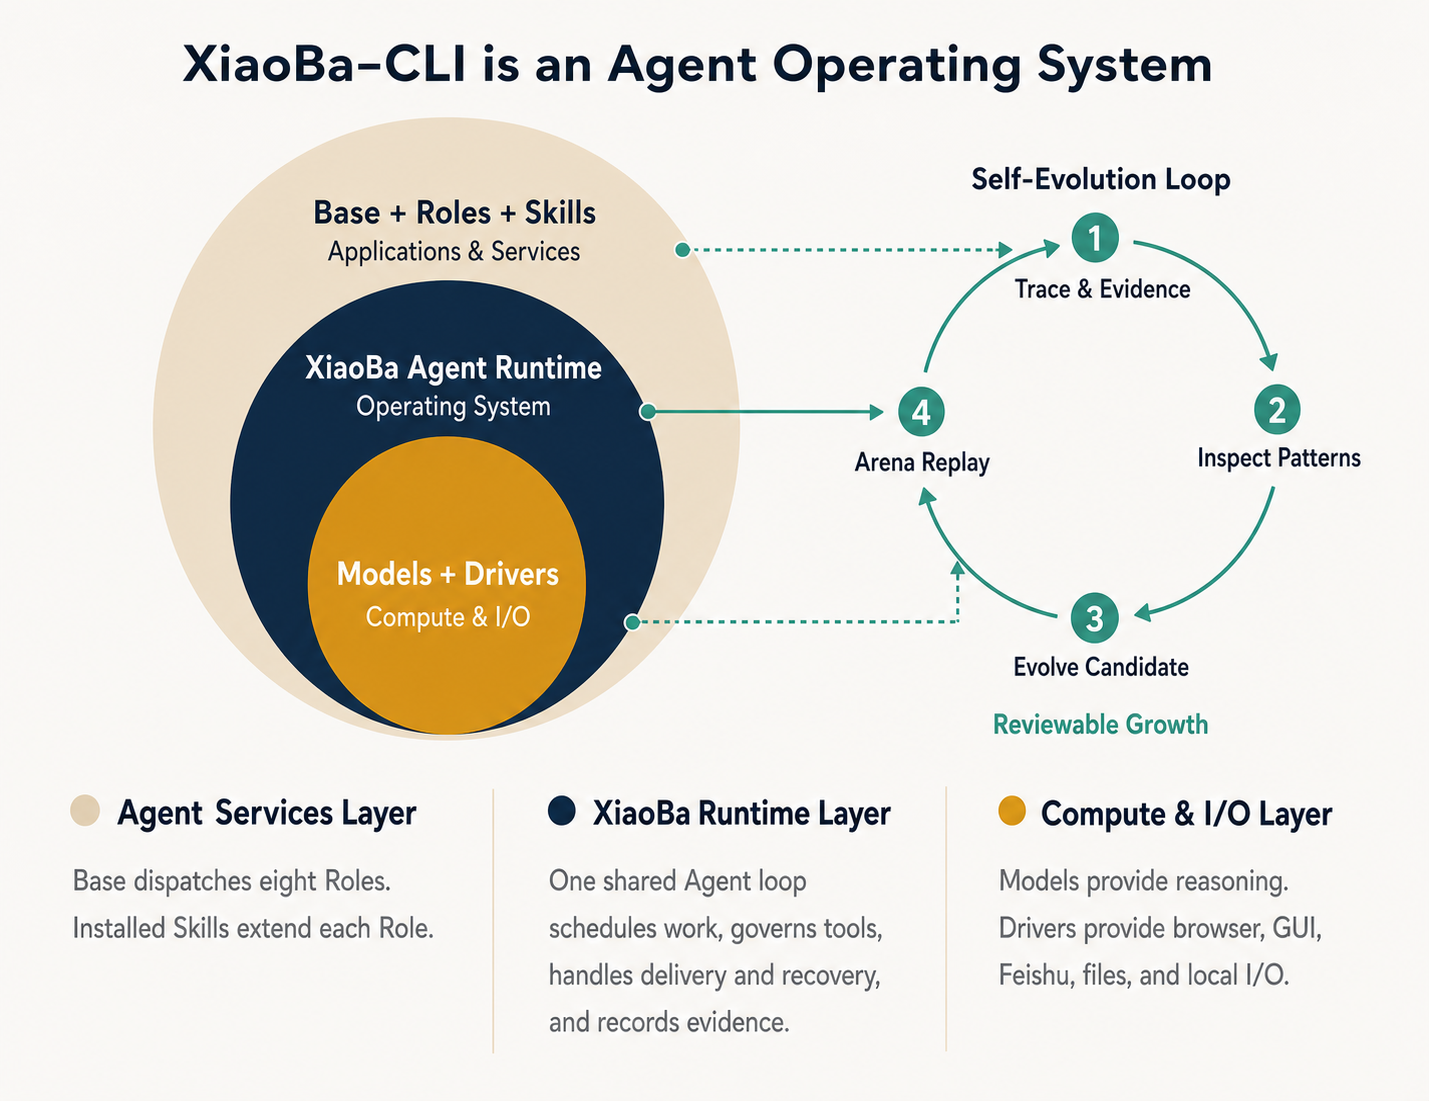
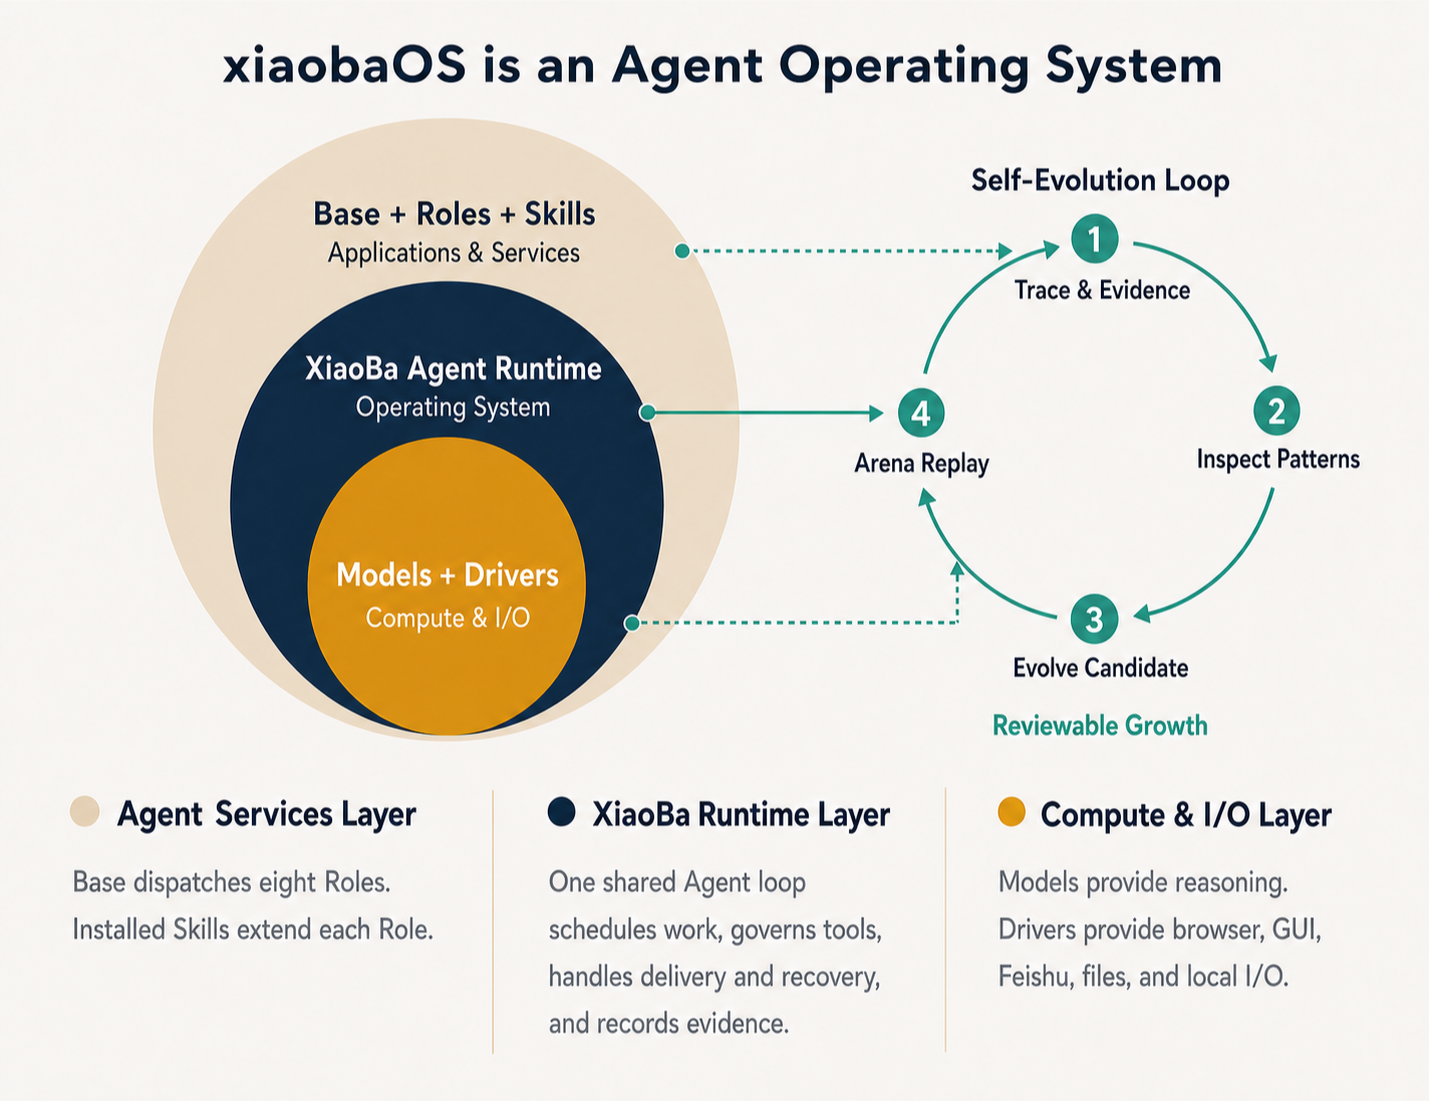
Update site branding to xiaobaOS

diff --git a/posts/xiaoba-cli-agent-os.html b/posts/xiaoba-cli-agent-os.html
@@ -5,10 +5,10 @@
     <meta name="viewport" content="width=device-width, initial-scale=1.0" />
     <meta
       name="description"
-      content="为什么 XiaoBa-CLI 不只是一个模型套壳，而是一套把模型、工具、角色、证据和自进化组织起来的 Agent Operating System。"
+      content="为什么 xiaobaOS 不只是一个模型套壳，而是一套把模型、工具、角色、证据和自进化组织起来的 Agent Operating System。"
     />
     <meta property="og:type" content="article" />
-    <meta property="og:title" content="XiaoBa-CLI：为什么 Agent Harness 更像一个操作系统" />
+    <meta property="og:title" content="xiaobaOS：为什么 Agent Harness 更像一个操作系统" />
     <meta
       property="og:description"
       content="模型只是 CPU，Runtime 才决定 Agent 如何工作、如何留下证据，以及如何持续进化。"
@@ -18,7 +18,7 @@
       content="https://fightheyyy.github.io/assets/posts/xiaoba-cli-agent-os/agent-os.png"
     />
     <meta property="article:published_time" content="2026-07-16" />
-    <title>XiaoBa-CLI：为什么 Agent Harness 更像一个操作系统</title>
+    <title>xiaobaOS：为什么 Agent Harness 更像一个操作系统</title>
     <link rel="canonical" href="https://fightheyyy.github.io/posts/xiaoba-cli-agent-os.html" />
     <link rel="icon" type="image/png" href="../assets/favicon.png" />
     <link
@@ -46,8 +46,8 @@
       <article>
         <header class="article-header">
           <p class="article-kicker">Agent Harness · Architecture</p>
-          <h1 aria-label="XiaoBa-CLI：为什么 Agent Harness 更像一个操作系统">
-            <span>XiaoBa-CLI：</span>
+          <h1 aria-label="xiaobaOS：为什么 Agent Harness 更像一个操作系统">
+            <span>xiaobaOS：</span>
             <span>为什么 Agent Harness</span>
             <span>更像操作系统</span>
           </h1>
@@ -62,12 +62,12 @@
 
         <div class="article-content">
           <p class="article-lead">
-            大模型越来越强，但一个更强的模型，并不会自然变成一个可靠的工作系统。它仍然需要知道任务从哪里进入、该由谁处理、可以调用什么、什么时候算完成，以及失败后如何复盘。XiaoBa-CLI
+            大模型越来越强，但一个更强的模型，并不会自然变成一个可靠的工作系统。它仍然需要知道任务从哪里进入、该由谁处理、可以调用什么、什么时候算完成，以及失败后如何复盘。xiaobaOS
             做的，正是模型上下这些经常被忽略的部分。
           </p>
 
           <p>
-            所以我更愿意把 XiaoBa-CLI 看成一个 <strong>Agent Operating System</strong>：它不生产智能本身，而是把模型的计算能力组织成可交付、可复盘、能受控进化的 Agent。
+            所以我更愿意把 xiaobaOS 看成一个 <strong>Agent Operating System</strong>：它不生产智能本身，而是把模型的计算能力组织成可交付、可复盘、能受控进化的 Agent。
           </p>
 
           <figure class="article-figure">
@@ -75,13 +75,13 @@
               <a href="../assets/posts/xiaoba-cli-agent-os/agent-os.png" target="_blank">
                 <img
                   src="../assets/posts/xiaoba-cli-agent-os/agent-os.png"
-                  alt="XiaoBa-CLI Agent Operating System 架构：底层是 Models 与 Drivers，中间是 Agent Runtime，上层是 Base、Roles 与 Skills，运行证据进入自进化反馈循环。"
+                  alt="xiaobaOS Agent Operating System 架构：底层是 Models 与 Drivers，中间是 Agent Runtime，上层是 Base、Roles 与 Skills，运行证据进入自进化反馈循环。"
                   width="1429"
                   height="1101"
                 />
               </a>
             </div>
-            <figcaption>图 1：XiaoBa-CLI 的 Agent OS 分层，以及由运行证据驱动的自进化回路。点击可查看原图。</figcaption>
+            <figcaption>图 1：xiaobaOS 的 Agent OS 分层，以及由运行证据驱动的自进化回路。点击可查看原图。</figcaption>
           </figure>
 
           <h2>模型是 CPU，不是操作系统</h2>
@@ -90,12 +90,12 @@
             CPU 很重要，但只有 CPU 的机器无法完成工作。进程调度、设备访问、文件系统、权限边界和故障处理，都是操作系统必须承担的职责。Agent 也一样：模型提供推理与生成，却不应该同时承担会话入口、角色路由、工具协议、交付确认和评测门禁。
           </p>
 
-          <div class="article-table-wrap" tabindex="0" role="region" aria-label="操作系统与 XiaoBa-CLI 的对应关系">
+          <div class="article-table-wrap" tabindex="0" role="region" aria-label="操作系统与 xiaobaOS 的对应关系">
             <table>
               <thead>
                 <tr>
                   <th>计算机系统</th>
-                  <th>XiaoBa-CLI</th>
+                  <th>xiaobaOS</th>
                   <th>负责什么</th>
                 </tr>
               </thead>
@@ -140,7 +140,7 @@
 
           <h2>一次真实任务是怎样运行的</h2>
 
-          <pre class="article-flow" aria-label="XiaoBa-CLI 任务运行链路"><code>CLI / IM / Desktop
+          <pre class="article-flow" aria-label="xiaobaOS 任务运行链路"><code>CLI / IM / Desktop
         ↓
 Base Main Agent
         ↓ dispatch
@@ -168,7 +168,7 @@ Delivery + Trace + Artifact Evidence</code></pre>
           <h2>为什么 Driver 不是另一个 Agent</h2>
 
           <p>
-            浏览器、桌面 GUI 和飞书工作流都很复杂，但 XiaoBa-CLI 没有为它们再启动第二套 Chat / Agent / MCP 循环。BrowserCat、GuiCat、SecretaryCat
+            浏览器、桌面 GUI 和飞书工作流都很复杂，但 xiaobaOS 没有为它们再启动第二套 Chat / Agent / MCP 循环。BrowserCat、GuiCat、SecretaryCat
             仍然负责判断和编排，底层 Driver 只暴露确定性能力：打开页面、点击控件、读写文件、发送消息。
           </p>
 
@@ -179,7 +179,7 @@ Delivery + Trace + Artifact Evidence</code></pre>
           <h2>“完成了”必须有证据</h2>
 
           <p>
-            Agent 最危险的错觉之一，是把一段语气确定的回复当成任务完成。XiaoBa-CLI 把模型调用、工具结果、生成文件、实际交付和失败信息写入 trace；文件是否存在、消息是否送达、页面是否真的变化，需要由 artifact、delivery evidence 或硬验证器确认。
+            Agent 最危险的错觉之一，是把一段语气确定的回复当成任务完成。xiaobaOS 把模型调用、工具结果、生成文件、实际交付和失败信息写入 trace；文件是否存在、消息是否送达、页面是否真的变化，需要由 artifact、delivery evidence 或硬验证器确认。
           </p>
 
           <p>这套证据链支撑三种不同的验证方式：</p>
@@ -223,7 +223,7 @@ Delivery + Trace + Artifact Evidence</code></pre>
           <h2>这个 OS 类比的边界</h2>
 
           <p>
-            XiaoBa-CLI 不是通用操作系统，也不提供内核级进程隔离。更准确地说，它是 Agent 软件栈中的 Runtime 与控制面：向下统一模型、工具和环境，向上承载角色、Skills 与真实工作流，并用证据和评测守住变化边界。
+            xiaobaOS 不是通用操作系统，也不提供内核级进程隔离。更准确地说，它是 Agent 软件栈中的 Runtime 与控制面：向下统一模型、工具和环境，向上承载角色、Skills 与真实工作流，并用证据和评测守住变化边界。
           </p>
 
           <p>
@@ -232,10 +232,10 @@ Delivery + Trace + Artifact Evidence</code></pre>
 
           <div class="article-ending">
             <p>
-              XiaoBa-CLI 仍在持续演进。如果你也在研究 Agent Harness、可观测性或 Agentic Eval，可以直接查看项目源码和当前架构。
+              xiaobaOS 仍在持续演进。如果你也在研究 Agent Harness、可观测性或 Agentic Eval，可以直接查看项目源码和当前架构。
             </p>
             <a href="https://github.com/fightheyyy/XiaoBa-CLI" target="_blank" rel="noreferrer">
-              View XiaoBa-CLI on GitHub →
+              View xiaobaOS on GitHub →
             </a>
           </div>
         </div>

diff --git a/index.html b/index.html
@@ -48,7 +48,7 @@
         <div class="link-index project-index">
           <div class="index-item reveal-item">
             <a class="index-link" href="https://github.com/fightheyyy/XiaoBa-CLI" target="_blank" rel="noreferrer">
-              <span class="index-title">XiaoBa-CLI</span>
+              <span class="index-title">xiaobaOS</span>
               <span class="index-context">Agent Harness</span>
               <span class="index-destination">GitHub</span>
             </a>
@@ -101,7 +101,7 @@
           </div>
           <div class="index-item reveal-item">
             <a class="index-link writing-link" href="posts/xiaoba-cli-agent-os.html">
-              <span class="index-title">XiaoBa-CLI：为什么 Agent Harness 更像一个操作系统</span>
+              <span class="index-title">xiaobaOS：为什么 Agent Harness 更像一个操作系统</span>
               <span class="index-destination">Read</span>
             </a>
           </div>

diff --git a/posts/barena-agent-release-ci.html b/posts/barena-agent-release-ci.html
@@ -285,7 +285,7 @@ paired release gate</code></pre>
           <h2>Eval 系统本身也在信任边界之内</h2>
 
           <p>
-            Barena 当前深度适配 XiaoBa-CLI 0.1.1 的 native Arena，用它评测 Role 和 Skill。但这个版本里的 UserCat、InspectorCat、ReviewerCat 是一条 composite pipeline 的逻辑阶段，不是三个独立的 AgentSession。结果中会明确记录 <code>three_evaluator_agent_sessions=false</code>，而不会为了让架构听起来更完整就改写事实。
+            Barena 当前深度适配 xiaobaOS 0.1.1 的 native Arena，用它评测 Role 和 Skill。但这个版本里的 UserCat、InspectorCat、ReviewerCat 是一条 composite pipeline 的逻辑阶段，不是三个独立的 AgentSession。结果中会明确记录 <code>three_evaluator_agent_sessions=false</code>，而不会为了让架构听起来更完整就改写事实。
           </p>
 
           <p>